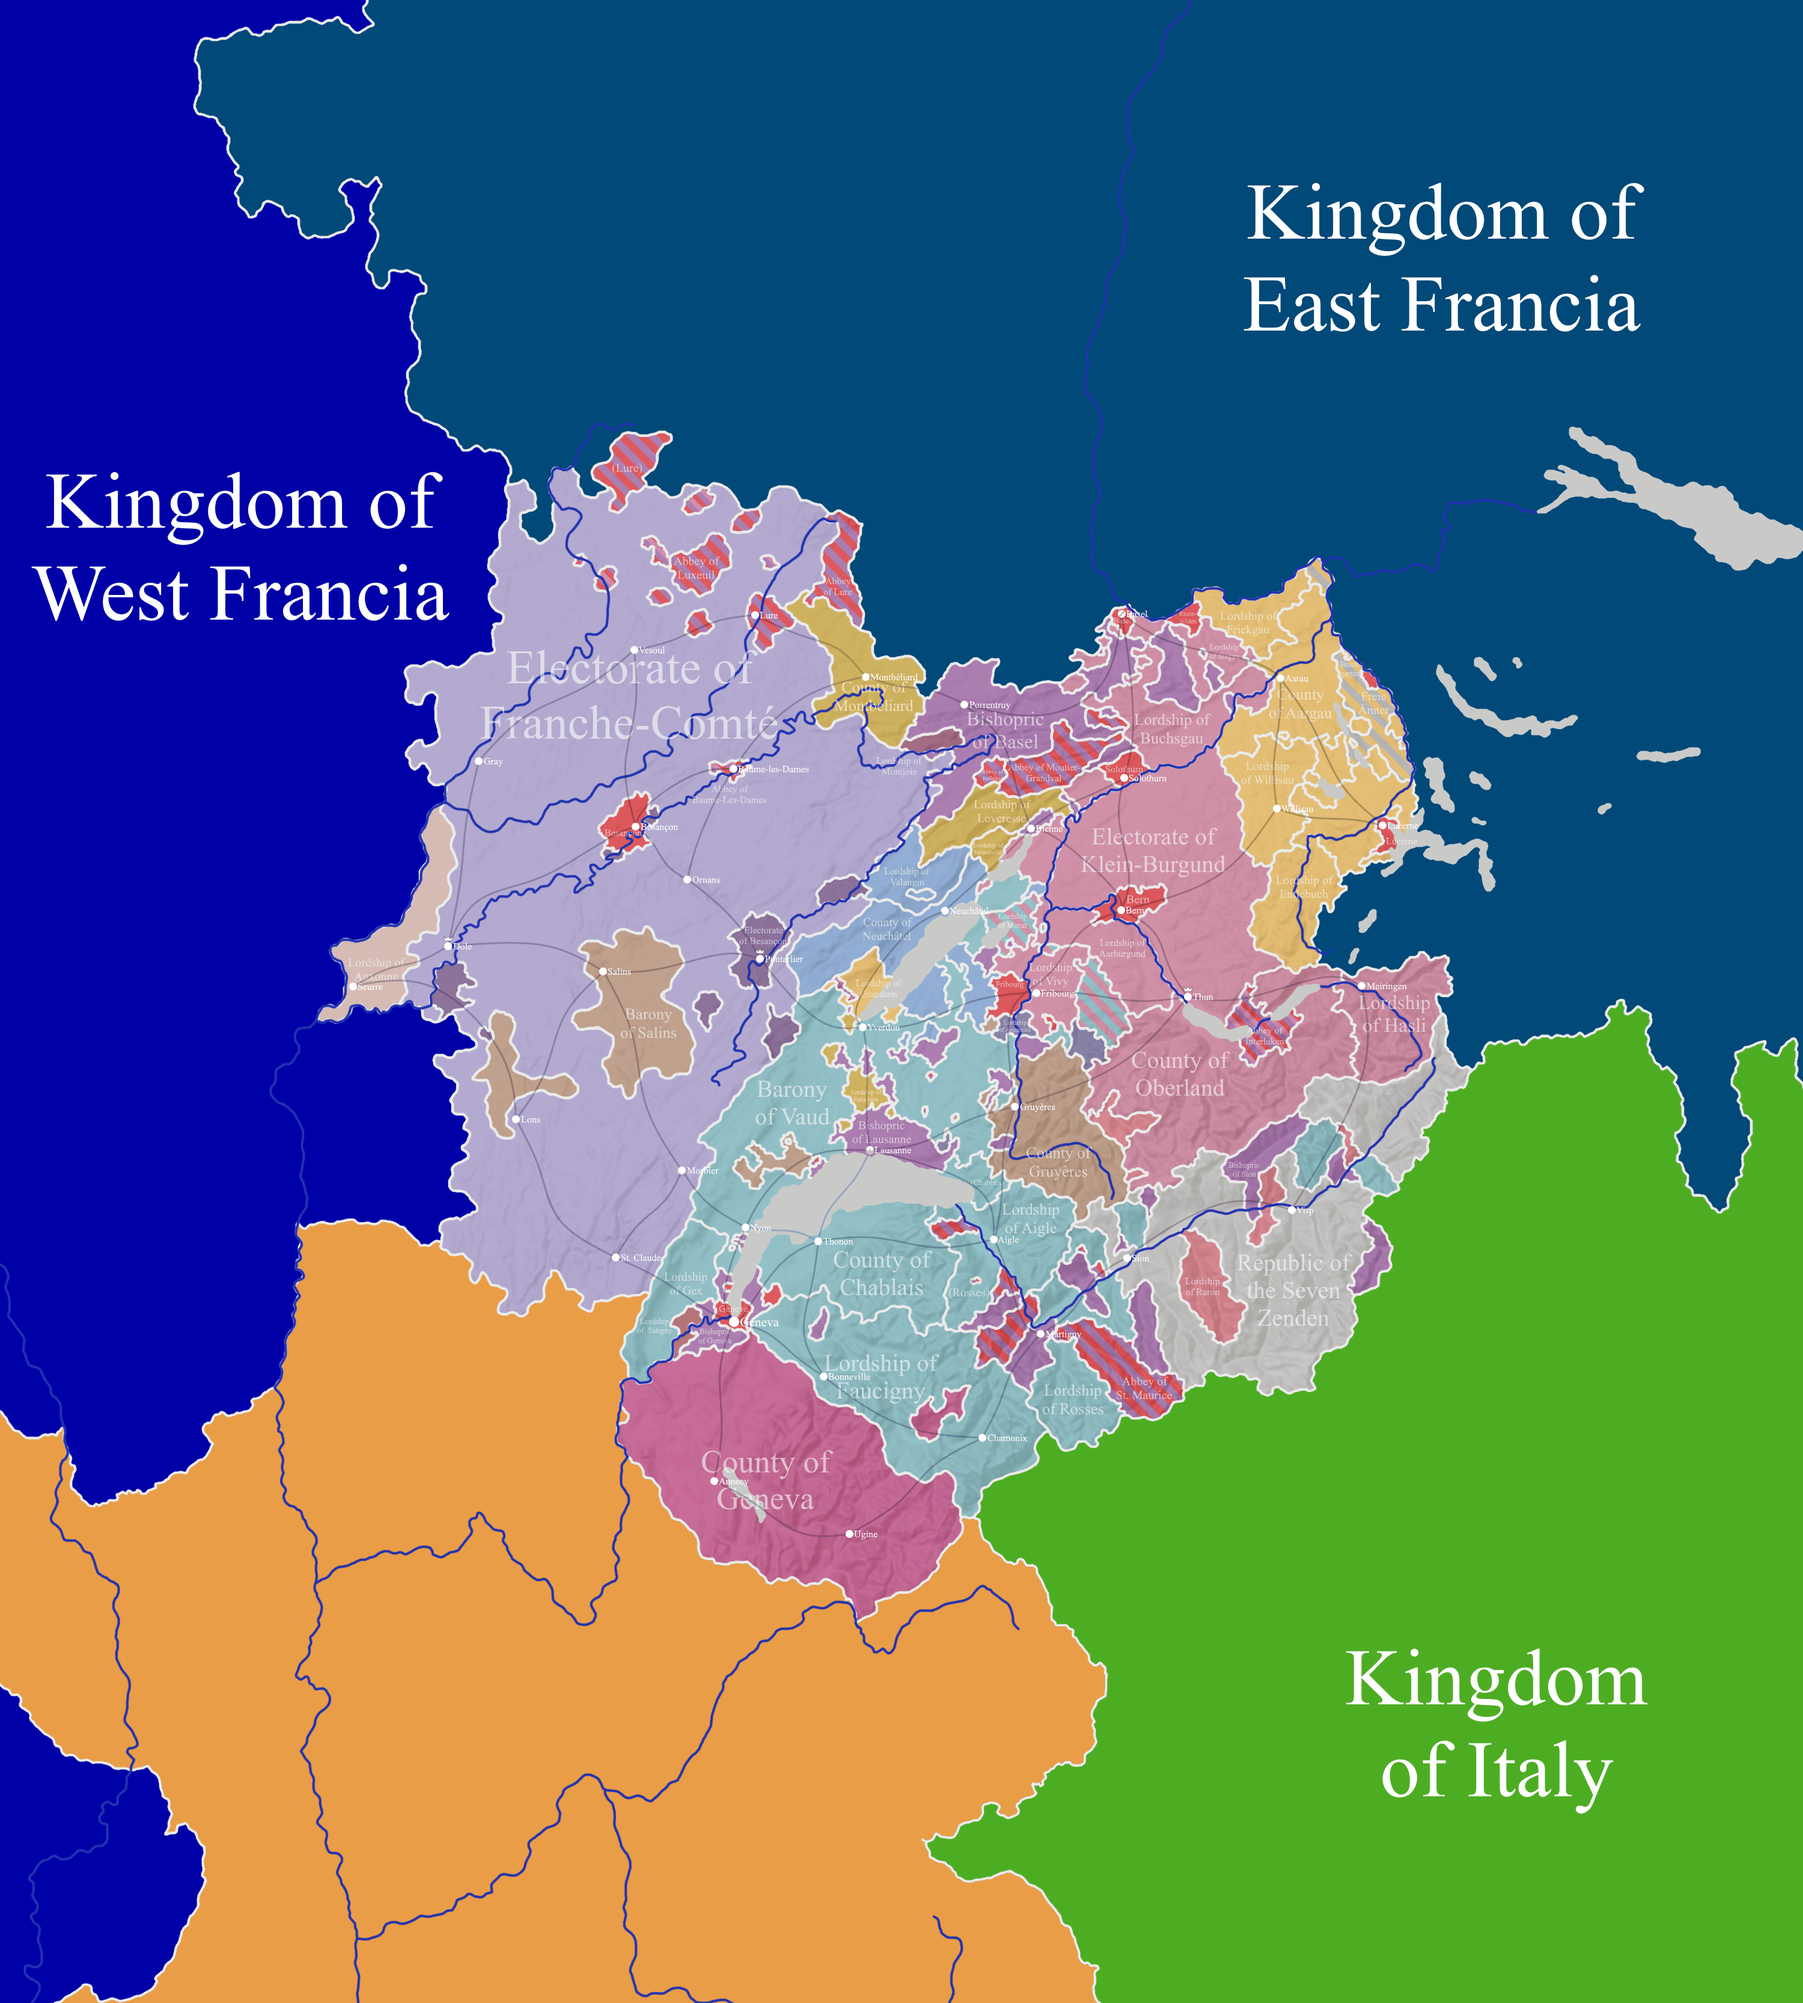
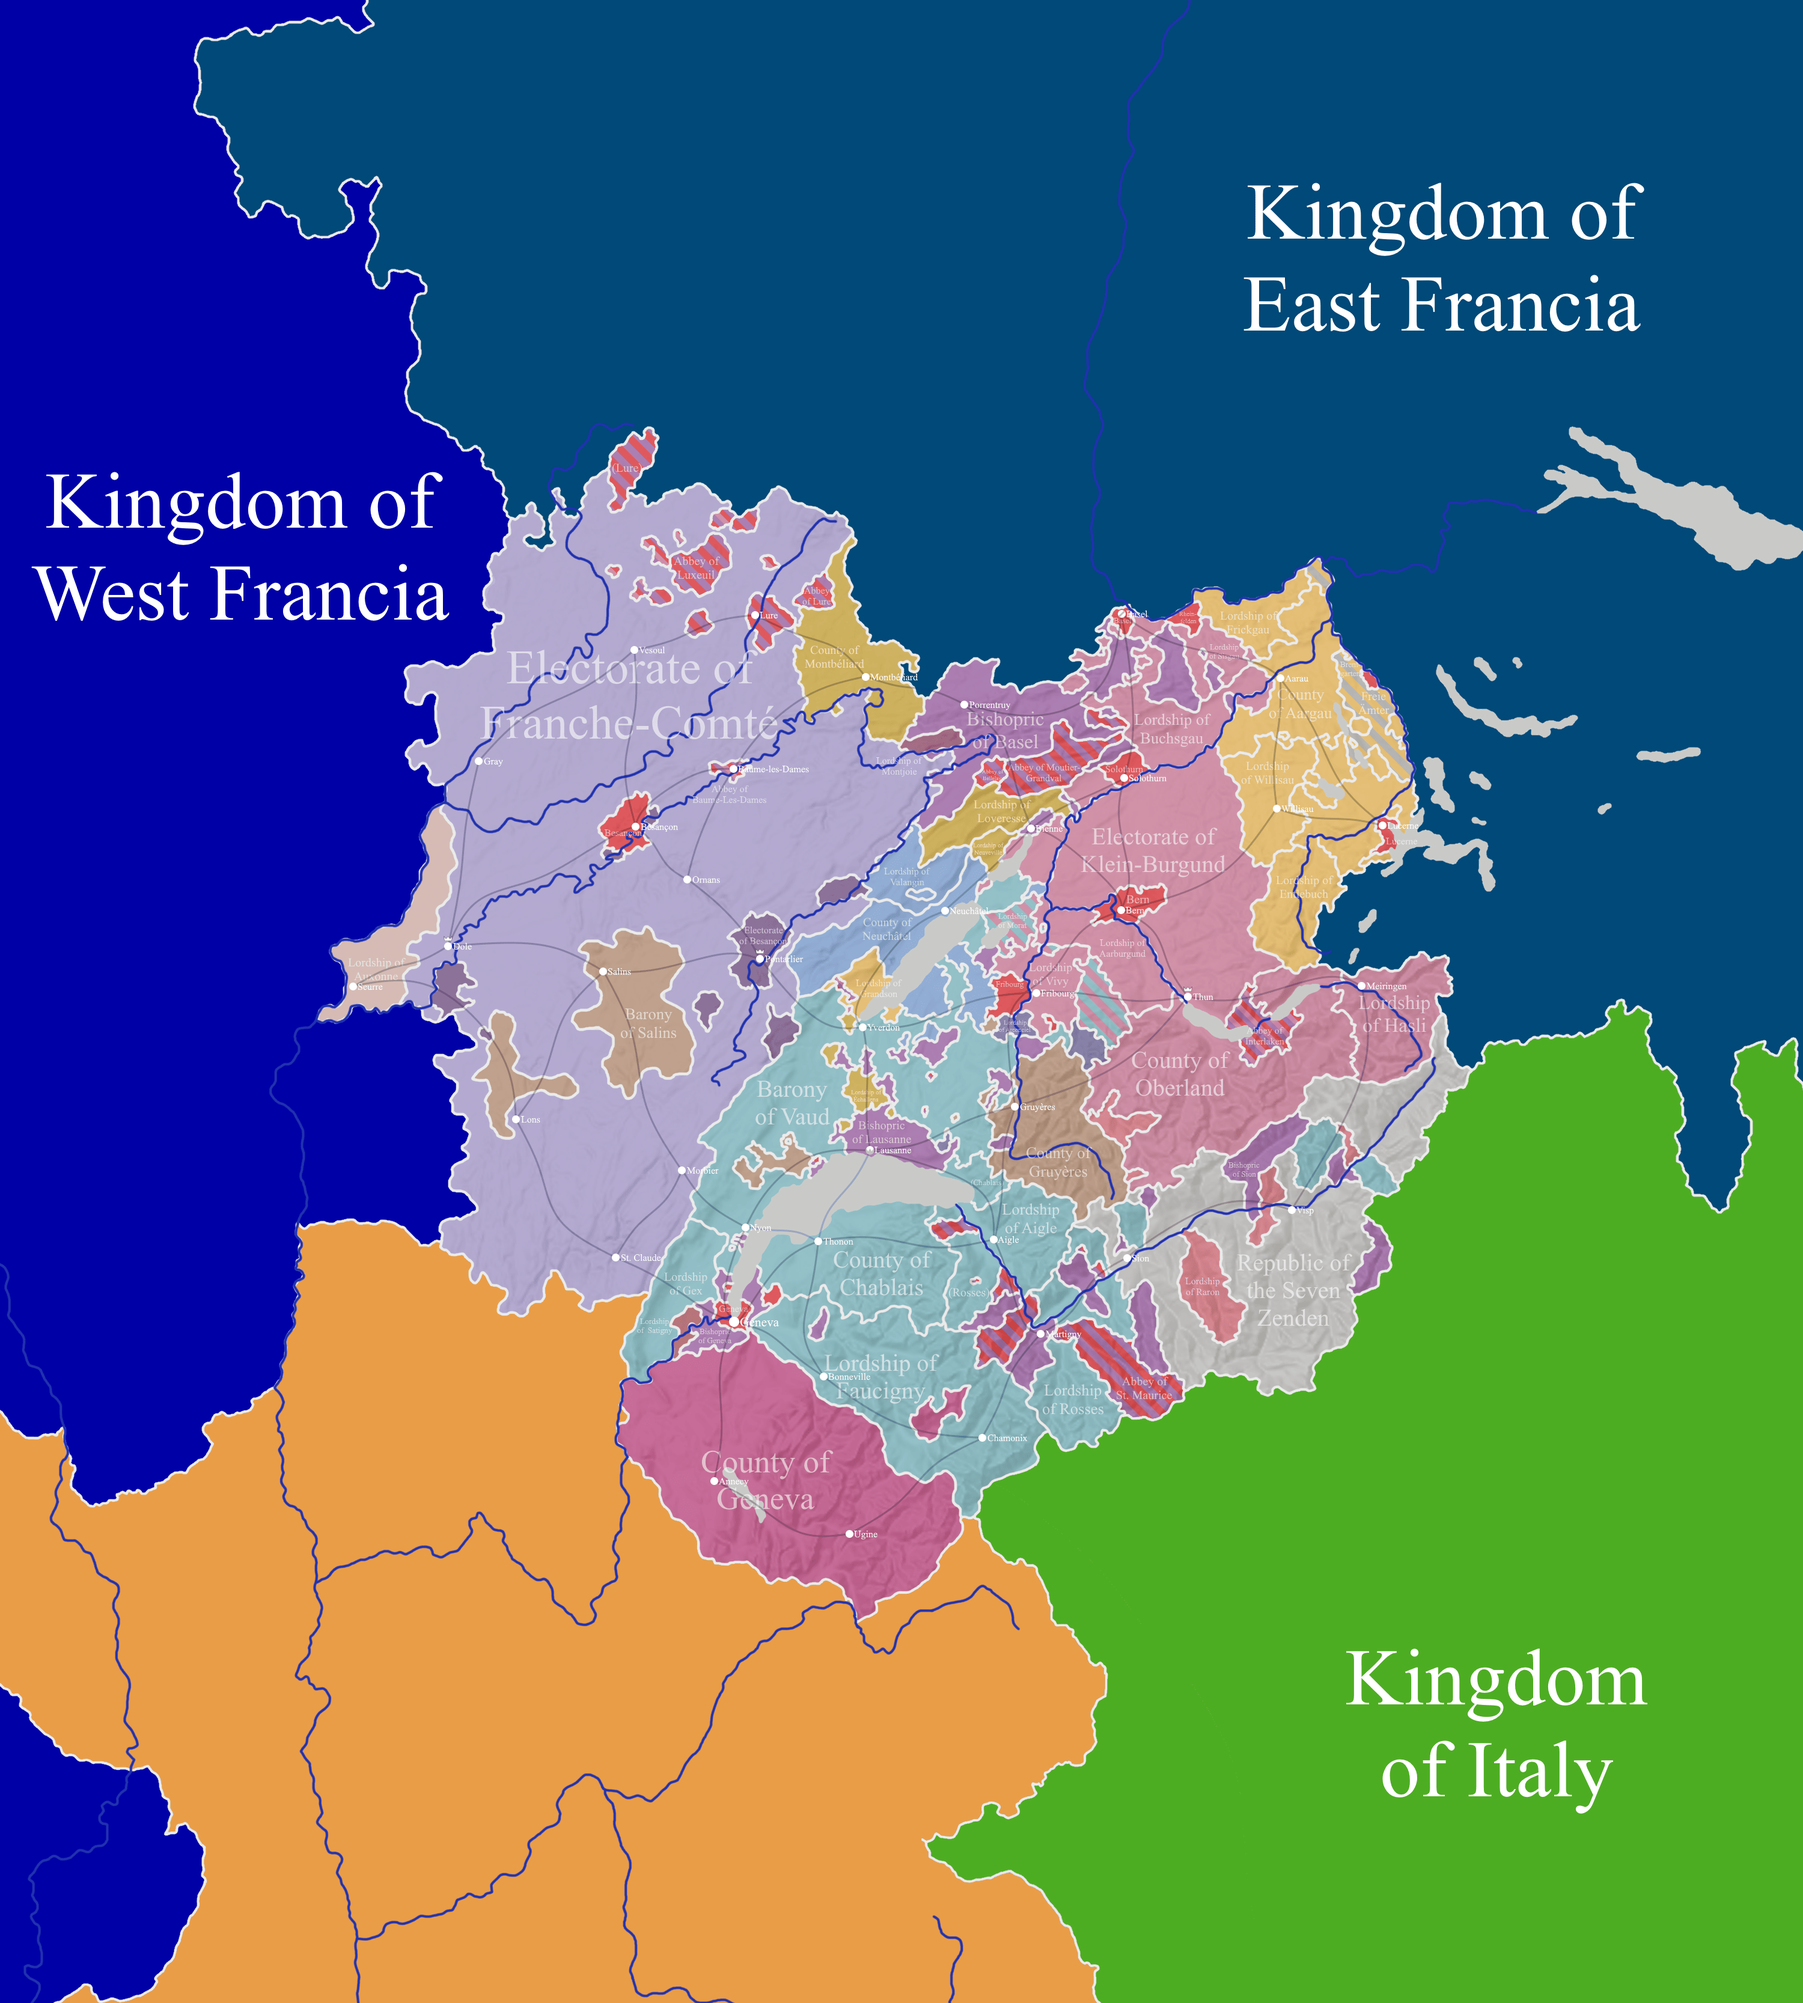
Not Serious

Changed region(s): [[0.248, 0.2184, 0.527, 0.3744], [0.248, 0.2808, 0.279, 0.312]]

diff --git a/Generators/Arelat/Data/states.js b/Generators/Arelat/Data/states.js
@@ -215,21 +215,21 @@ types={state:[
     district:`Franche-Comté`,
     rule:`Ecclesiastical`,
     prestige:[],
-    area:20537,
+    area:10860,
   },{
     name:`Luxeuil`,
     title:`Abbey`,
     district:`Franche-Comté`,
     rule:`Ecclesiastical`,
     prestige:[],
-    area:8353,
+    area:8206,
   },{
     name:`Baume-Les-Dames`,
     title:`Abbey`,
     district:`Franche-Comté`,
     rule:`Ecclesiastical`,
     prestige:[],
-    area:3795,
+    area:3102,
   },{
     name:`Le Beausset`,
     title:`Abbey`,
@@ -551,14 +551,14 @@ types={state:[
     district:`Franche-Comté`,
     rule:`Andechs`,
     prestige:[`Elector`,`Duke`],
-    area:641450,
+    area:634596,
   },{
     name:`Montbéliard`,
     title:`County`,
     district:`Franche-Comté`,
     rule:`Montfaucon`,
     prestige:[],
-    area:24628,
+    area:29362,
   },{
     name:`Neuveville`,
     title:`Lordship`,

diff --git a/Generators/Arelat/Data/districts.js b/Generators/Arelat/Data/districts.js
@@ -6,7 +6,7 @@ types.district=[
     },{
         name:`Franche-Comté`,
         region:`Transjurania`,
-        area:823676,
+        area:813190,
     },{
         name:`Helvetie`,
         region:`Transjurania`,
